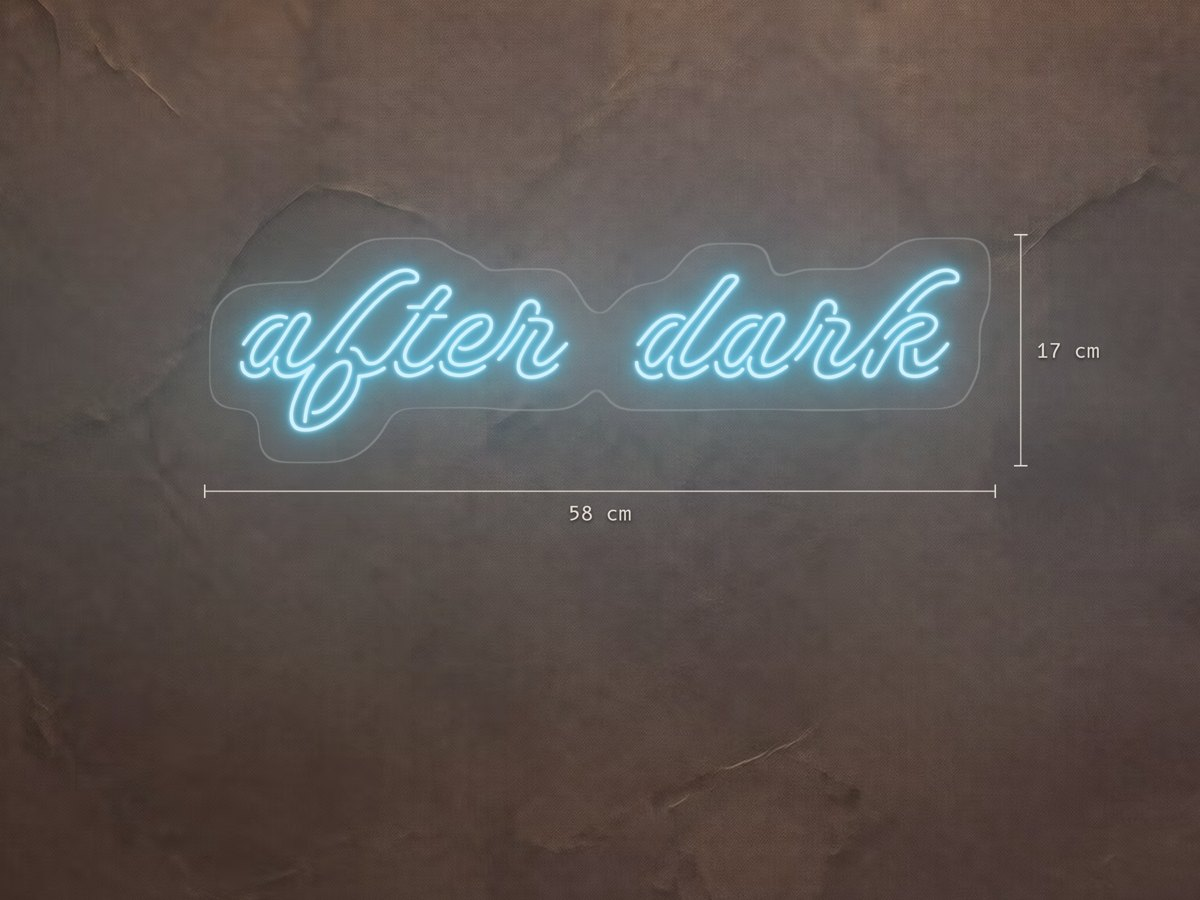
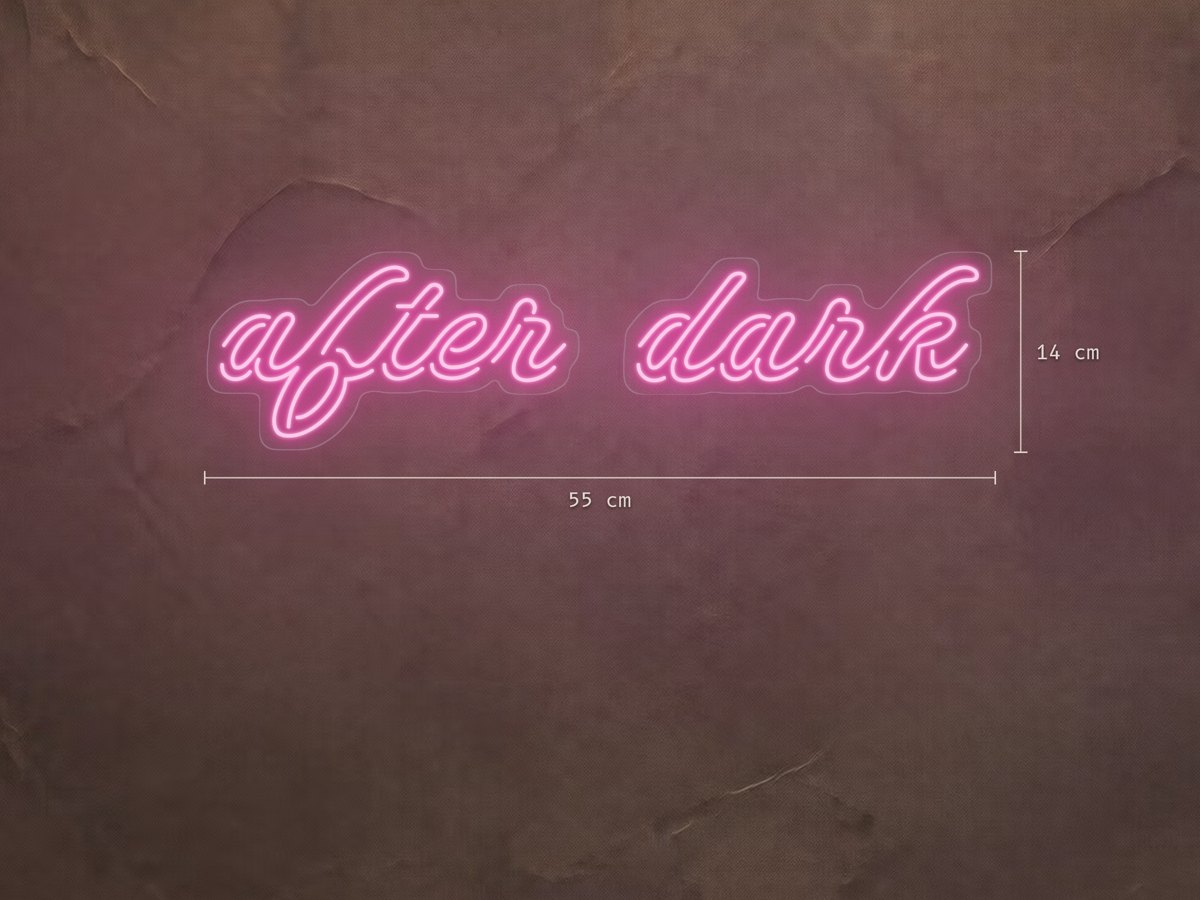
rework round 11: hot-pink hero (no tag line), pink cut-to-letter step 1, pink hallway step 4, official WhatsApp and Trustpilot marks, Judge.me removed
Claude-Session: https://claude.ai/code/session_01Pnw5gyuiyTv2QfuPs22Zx6

Changed region(s): [[0.1233, 0.1867, 0.925, 0.5911], [0.0925, 0.0622, 0.1233, 0.0933]]

diff --git a/rework/index.html b/rework/index.html
@@ -94,8 +94,7 @@
       </ul>
     </div>
     <div class="hero__media" data-qa="home.hero.media">
-      <img src="/lit-neon-preview/rework/assets/img/photos/hero-1600.jpg" srcset="/lit-neon-preview/rework/assets/img/photos/hero-800.jpg 800w, /lit-neon-preview/rework/assets/img/photos/hero-1600.jpg 1600w" sizes="(max-width: 1023px) 100vw, 50vw" width="1600" height="1200" alt="A custom ice-blue LED neon sign reading after dark, lit on a living room wall" fetchpriority="high" decoding="async">
-      <div class="hero__tag"><span>“after dark”</span> · 60 cm · ice blue · <em data-qa="home.hero.tagprice" data-price></em></div>
+      <img src="/lit-neon-preview/rework/assets/img/photos/hero-1600.jpg" srcset="/lit-neon-preview/rework/assets/img/photos/hero-800.jpg 800w, /lit-neon-preview/rework/assets/img/photos/hero-1600.jpg 1600w" sizes="(max-width: 1023px) 100vw, 50vw" width="1600" height="1200" alt="A custom hot-pink LED neon sign reading after dark, lit on a brick living room wall" fetchpriority="high" decoding="async">
     </div>
   </section>
 
@@ -160,7 +159,7 @@
       </header>
       <div class="w-dn" data-qa="home.daynight">
         <div class="w-dn__half"><img src="/lit-neon-preview/rework/assets/img/photos/p53-800.jpg" srcset="/lit-neon-preview/rework/assets/img/photos/p53-800.jpg 800w, /lit-neon-preview/rework/assets/img/photos/p53-1600.jpg 1600w" sizes="(max-width: 767px) 100vw, 50vw" alt="The kitchen by day, the sign switched off: plain white tube on clear acrylic" loading="lazy" decoding="async"><span class="w-dn__lab">Day · off</span></div>
-        <div class="w-dn__half"><img src="/lit-neon-preview/rework/assets/img/photos/p55-800.jpg" srcset="/lit-neon-preview/rework/assets/img/photos/p55-800.jpg 800w, /lit-neon-preview/rework/assets/img/photos/p55-1600.jpg 1600w" sizes="(max-width: 767px) 100vw, 50vw" alt="The same kitchen at night, the sign switched on in hot pink" loading="lazy" decoding="async"><span class="w-dn__lab">Night · on</span></div>
+        <div class="w-dn__half"><img src="/lit-neon-preview/rework/assets/img/photos/p55-800.jpg" srcset="/lit-neon-preview/rework/assets/img/photos/p55-800.jpg 800w, /lit-neon-preview/rework/assets/img/photos/p55-1600.jpg 1600w" sizes="(max-width: 767px) 100vw, 50vw" alt="The same kitchen at night, the sign switched on in ice blue" loading="lazy" decoding="async"><span class="w-dn__lab">Night · on</span></div>
       </div>
     </div>
   </section>

diff --git a/rework/assets/js/pages/home.js b/rework/assets/js/pages/home.js
@@ -296,10 +296,10 @@ if ($('#shop-tabs')) ui.tabs($('#shop-tabs'), { onChange: () => R.refitAll() });
 
 /* ============================================================ 4 · HOW IT WORKS ============================================================ */
 const HOW_MEDIA = [
-  { kind: 'shot', src: '/lit-neon-preview/rework/assets/img/how/design-800.jpg', alt: 'The designer: after dark drawn to scale on the wall, with its sizes' },
+  { kind: 'shot', src: '/lit-neon-preview/rework/assets/img/how/design-800.jpg', alt: 'The designer: after dark in hot pink, cut to letter, drawn to scale with its sizes' },
   { kind: 'photo', src: '/lit-neon-preview/rework/assets/img/photos/p41-800.jpg', alt: 'A printed proof drawing of a neon sign with its sizes marked, on a desk' },
   { kind: 'photo', src: '/lit-neon-preview/rework/assets/img/photos/p42-800.jpg', alt: 'Hands fitting white LED neon into acrylic cut to the outline of after dark' },
-  { kind: 'photo', src: '/lit-neon-preview/rework/assets/img/photos/p43-800.jpg', alt: 'The finished after dark sign lit ice blue on a living room wall' }
+  { kind: 'photo', src: '/lit-neon-preview/rework/assets/img/photos/p43-800.jpg', alt: 'The finished after dark sign lit hot pink above a hallway console' }
 ];
 $('#how-list').innerHTML = (copy.get('how.steps') || []).map((s, i) => { const m = HOW_MEDIA[i]; return `<li><span class="w-step__media${m && m.kind === 'shot' ? ' is-shot' : ''}">${m ? `<img src="${m.src}" alt="${esc(m.alt)}" loading="lazy" decoding="async">` : ''}</span><div><h3>${esc(s.title)}</h3><p>${esc(s.line)}</p></div></li>`; }).join('');
 const howSheet = $('#how-sheet');

diff --git a/rework/assets/js/core/chrome.js b/rework/assets/js/core/chrome.js
@@ -396,7 +396,7 @@ async function footer() {
         ${contact.kind === 'whatsapp' && facts.has('supportEmail') ? `<li><a href="mailto:${esc(facts.value('supportEmail'))}" data-qa="chrome.footer.email">${icon('mail')}<span>${esc(facts.value('supportEmail'))}</span></a></li>` : ''}
         ${contact.kind !== 'contact' ? `<li><a href="${url('contact.html')}" data-qa="chrome.footer.link" data-id="contactForm">${icon('chat')}<span>${esc(copy.t('footer.contactForm'))}</span></a></li>` : ''}
       </ul></div>
-      <div><h3>${esc(copy.t('footer.cols.trust'))}</h3><div class="ch-footer__pay" data-qa="chrome.footer.pay"></div><p class="ch-footer__reviews">${esc(copy.t('footer.reviews'))}</p><div class="ch-footer__social" data-qa="chrome.footer.social"></div></div>
+      <div><h3>${esc(copy.t('footer.cols.trust'))}</h3><div class="ch-footer__pay" data-qa="chrome.footer.pay"></div><p class="ch-footer__reviews">${icon('trustpilot', 'ic--sm')}${esc(copy.t('footer.reviews'))}</p><div class="ch-footer__social" data-qa="chrome.footer.social"></div></div>
     </div>
     <div class="w-news" data-qa="chrome.footer.news">
       <div><h3>${esc(copy.t('footer.newsTitle', {}, 'New signs and offers, now and then'))}</h3><p>${esc(copy.t('footer.newsBody', {}, 'One email a month at most. Unsubscribe in one tap.'))}</p></div>

diff --git a/rework/assets/css/world.css b/rework/assets/css/world.css
@@ -398,3 +398,6 @@ body[data-page="builder"] .w-wa { display: none; }
 .ch-announce .ch-marquee__set i, .ch-announce .ch-marquee__track > i { color: var(--night); opacity: .55; }
 /* phones: the menu button sits on the left, the basket on the right, the mark centred between them (owner 2026-10-17) */
 @media (max-width: 1023px) { .ch-burger { position: absolute; left: var(--gutter); top: 50%; transform: translateY(-50%); z-index: 2; } }
+.ch-footer__reviews { display: flex; align-items: center; gap: var(--s-2); }
+.ch-footer__reviews .ic { width: 16px; height: 16px; color: #00B67A; flex: none; }
+.w-wa .ic { width: 30px; height: 30px; }
